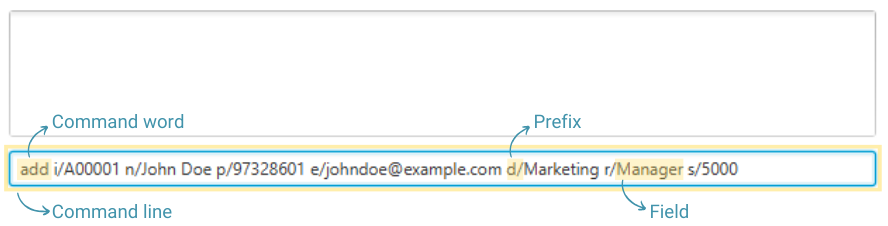
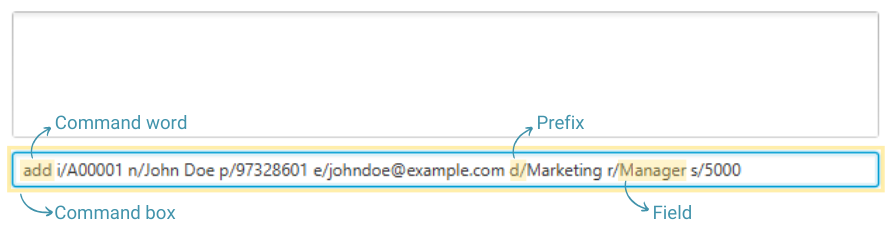
Update quick start

Changed region(s): [[0.0, 0.4956, 1.0, 0.9912], [0.0, 0.031, 0.973, 0.4336]]

diff --git a/docs/UserGuide.md b/docs/UserGuide.md
@@ -38,6 +38,15 @@ If you are an **experienced user**:
 ## Quick start
 
 1. Ensure you have Java `11` or above installed on your Computer.
+   1. Open the **terminal** on your Computer.
+      1. **Windows**: Open Windows Search and search for "terminal".
+      1. **Mac**: Open Spotlight Search and search for "terminal".
+      1. **Linux**: Press `Ctrl + Alt + T`.
+   1. Type `java --version` into the terminal.
+   1. If you have java installed, it should look similar to this: <br>
+      <img src="images/JavaVersion.png" width="600" />
+   1. Check that your version starts with `11` or higher.
+   1. If you do not have Java `11` or above installed, you can download Java `11` [here](https://www.oracle.com/java/technologies/downloads/#java11).
 
 1. Download the latest `employeemanager.jar` from [here](https://github.com/AY2324S1-CS2103T-T14-1/tp/releases).
 
@@ -47,7 +56,7 @@ If you are an **experienced user**:
    A GUI similar to the below should appear in a few seconds. Note how the app contains some sample data.<br>
    ![Ui](images/Ui.png)
 
-1. Type the command in the command box and press Enter to execute it. e.g. typing **`help`** and pressing Enter will open the help window.<br>
+1. Type the command in the command box and press Enter to execute it. e.g. typing `help` and pressing Enter will open the help window.<br>
    Some example commands you can try:
 
    * `list` : Lists all employees.
@@ -66,7 +75,7 @@ If you are an **experienced user**:
 
 <img src="images/CommandLineGuide.png" width="700" />
 
-1. Click on the command line.
+1. Click on the command box.
 
 1. Type the command word.
    1. Example: `add` is the command word for adding an employee.
